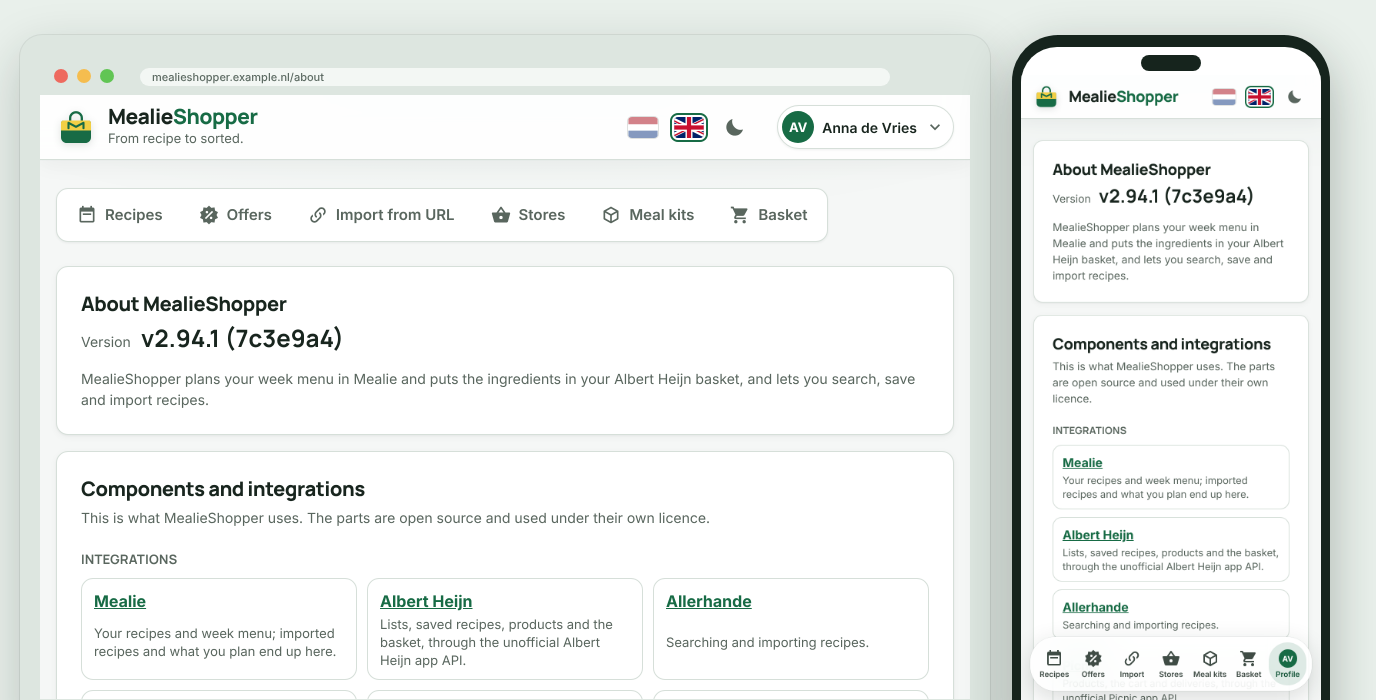
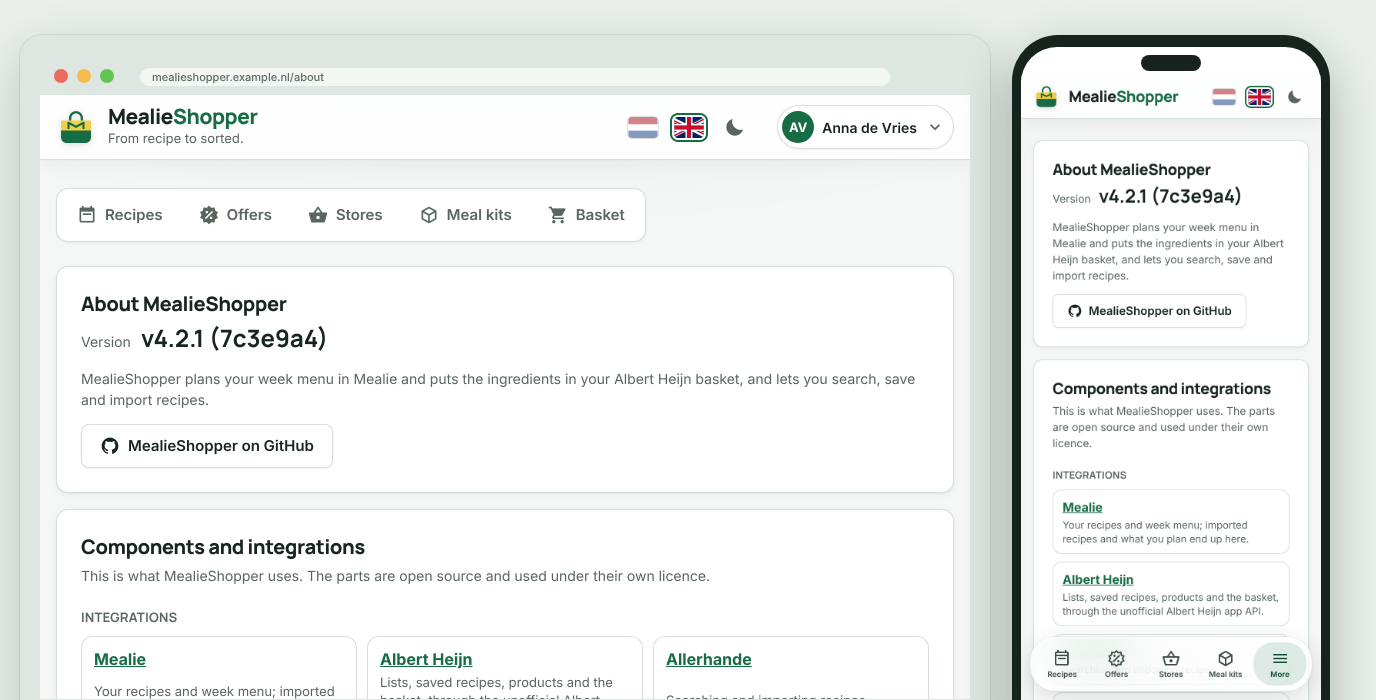
Over: link naar MealieShopper op GitHub (4.2.1)
De Over-pagina krijgt onder de versie en de omschrijving de knop
"MealieShopper op GitHub" (EN: "MealieShopper on GitHub") met het
GitHub-icoon van Material Design Icons. Hij opent
https://github.com/helmerzNL/MealieShopper in een nieuw tabblad.
/api/about geeft het adres ook terug als repoUrl.

Handleiding (NL en EN) en de screenshots van Over bijgewerkt;
test_repo_link bewaakt de link, het nieuwe tabblad en de vertalingen.

Claude-Session: https://claude.ai/code/session_01KSdu57v3zj27GFzTELBK48

diff --git a/templates/index.html b/templates/index.html
@@ -1956,6 +1956,7 @@
           <h2 data-i18n="about.title">Over MealieShopper</h2>
           <p class="about-version"><span class="muted" data-i18n="about.version_label">Versie</span> <strong id="about-version">-</strong></p>
           <p class="muted" data-i18n="about.tagline">MealieShopper plant je weekmenu in Mealie en zet de ingrediënten in je Albert Heijn-mandje, en laat je recepten zoeken, bewaren en importeren.</p>
+          <a class="button button--secondary about-repo" id="about-repo" href="https://github.com/helmerzNL/MealieShopper" target="_blank" rel="noopener noreferrer"><svg viewBox="0 0 24 24" aria-hidden="true" data-mdi="mdiGithub"><path d="M12,2A10,10 0 0,0 2,12C2,16.42 4.87,20.17 8.84,21.5C9.34,21.58 9.5,21.27 9.5,21C9.5,20.77 9.5,20.14 9.5,19.31C6.73,19.91 6.14,17.97 6.14,17.97C5.68,16.81 5.03,16.5 5.03,16.5C4.12,15.88 5.1,15.9 5.1,15.9C6.1,15.97 6.63,16.93 6.63,16.93C7.5,18.45 8.97,18 9.54,17.76C9.63,17.11 9.89,16.67 10.17,16.42C7.95,16.17 5.62,15.31 5.62,11.5C5.62,10.39 6,9.5 6.65,8.79C6.55,8.54 6.2,7.5 6.75,6.15C6.75,6.15 7.59,5.88 9.5,7.17C10.29,6.95 11.15,6.84 12,6.84C12.85,6.84 13.71,6.95 14.5,7.17C16.41,5.88 17.25,6.15 17.25,6.15C17.8,7.5 17.45,8.54 17.35,8.79C18,9.5 18.38,10.39 18.38,11.5C18.38,15.32 16.04,16.16 13.81,16.41C14.17,16.72 14.5,17.33 14.5,18.26C14.5,19.6 14.5,20.68 14.5,21C14.5,21.27 14.66,21.59 15.17,21.5C19.14,20.16 22,16.42 22,12A10,10 0 0,0 12,2Z"/></svg><span data-i18n="about.repo">MealieShopper op GitHub</span></a>
         </div>
         <div class="box box--wide about-box">
           <h2 data-i18n="about.components_title">Componenten en integraties</h2>

diff --git a/static/i18n/nl.js b/static/i18n/nl.js
@@ -1184,6 +1184,7 @@ I18N.add("nl", {
   "about.title": "Over MealieShopper",
   "about.version_label": "Versie",
   "about.tagline": "MealieShopper plant je weekmenu in Mealie en zet de ingrediënten in je Albert Heijn-mandje, en laat je recepten zoeken, bewaren en importeren.",
+  "about.repo": "MealieShopper op GitHub",
   "about.components_title": "Componenten en integraties",
   "about.components_intro": "Dit gebruikt MealieShopper. De onderdelen zijn open source en worden gebruikt onder hun eigen licentie.",
   "about.group.integrations": "Integraties",

diff --git a/static/i18n/en.js b/static/i18n/en.js
@@ -1184,6 +1184,7 @@ I18N.add("en", {
   "about.title": "About MealieShopper",
   "about.version_label": "Version",
   "about.tagline": "MealieShopper plans your week menu in Mealie and puts the ingredients in your Albert Heijn basket, and lets you search, save and import recipes.",
+  "about.repo": "MealieShopper on GitHub",
   "about.components_title": "Components and integrations",
   "about.components_intro": "This is what MealieShopper uses. The parts are open source and used under their own licence.",
   "about.group.integrations": "Integrations",

diff --git a/static/styles.css b/static/styles.css
@@ -3960,6 +3960,17 @@ body.has-onboarding {
   font-size: 12px;
 }
 
+.about-repo {
+  width: fit-content;
+  text-decoration: none;
+}
+
+.about-repo svg {
+  width: 20px;
+  height: 20px;
+  fill: currentColor;
+}
+
 .about-coffee p {
   margin: 8px 0 14px;
 }

diff --git a/tests/test_about.py b/tests/test_about.py
@@ -167,6 +167,17 @@ class ComponentsTest(AppTestCase):
         self.assertIn('rel="noopener noreferrer"', link)
         self.assertIn('target="_blank"', link)
 
+    def test_repo_link(self):
+        """Over linkt naar de broncode op GitHub, in een nieuw tabblad en met een vertaalde tekst."""
+        self.assertEqual(run(about.about())["repoUrl"], "https://github.com/helmerzNL/MealieShopper")
+        link = re.search(r'<a[^>]*id="about-repo"[^>]*>', HTML).group(0)
+        self.assertIn('href="https://github.com/helmerzNL/MealieShopper"', link)
+        self.assertIn('rel="noopener noreferrer"', link)
+        self.assertIn('target="_blank"', link)
+        self.assertIn('data-i18n="about.repo"', HTML[HTML.index('id="about-repo"'):])
+        for lang in ("nl", "en"):
+            self.assertIn('"about.repo": "MealieShopper o', (ROOT / "static" / "i18n" / f"{lang}.js").read_text(encoding="utf-8"), lang)
+
 
 class RouteTest(AppTestCase):
     def setUp(self):
@@ -199,7 +210,8 @@ class RouteTest(AppTestCase):
 class PageTest(AppTestCase):
     def test_about_page_has_versions_components_and_coffee_in_that_order_and_sits_in_the_avatar_menu(self):
         section = HTML[HTML.index('<section id="about"'):HTML.index("</main>")]
-        self.assertLess(section.index('id="about-version"'), section.index('id="about-components"'))
+        self.assertLess(section.index('id="about-version"'), section.index('id="about-repo"'))
+        self.assertLess(section.index('id="about-repo"'), section.index('id="about-components"'))
         self.assertLess(section.index('id="about-components"'), section.index('id="about-coffee"'))
         self.assertNotIn('data-tab="about"', HTML)
         menu = HTML[HTML.index('id="user-menu-list"'):HTML.index("</div>\n\n    <main")]

diff --git a/mealieshopper/about.py b/mealieshopper/about.py
@@ -20,6 +20,7 @@ from typing import Any
 
 ROOT = Path(__file__).resolve().parent.parent
 COFFEE_URL = "https://buymeacoffee.com/flux76"
+REPO_URL = "https://github.com/helmerzNL/MealieShopper"
 
 # (id, groep, naam, pakket in pip, vaste versie, licentie, website)
 COMPONENTS: list[tuple[str, str, str, str | None, str | None, str | None, str]] = [
@@ -138,6 +139,7 @@ async def about() -> dict[str, Any]:
         **await build_info(),
         "channel": build_channel(),
         "coffeeUrl": COFFEE_URL,
+        "repoUrl": REPO_URL,
         "components": [
             {
                 "id": ident,

diff --git a/CHANGELOG.md b/CHANGELOG.md
@@ -2,6 +2,16 @@
 
 Elke release heeft hier een eigen kopje `## vX.Y.Z` en wordt bij het mergen naar `main` automatisch een GitHub release (zie [Releases](#releases)). De tekst onder het kopje is de release-tekst op GitHub; een stabiele release krijgt de teksten van alle versies sinds de vorige stabiele release.
 
+## v4.2.1
+
+### Gewijzigd in 4.2.1
+
+*English summary: the **About** page now links to the MealieShopper repository on GitHub (https://github.com/helmerzNL/MealieShopper), with a button under the version and the description. It opens in a new tab. `/api/about` also returns the address as `repoUrl`.*
+
+- **Over: link naar MealieShopper op GitHub.** Onder het versienummer en de omschrijving staat de knop **MealieShopper op GitHub** (met het GitHub-icoon van Material Design Icons), naar [github.com/helmerzNL/MealieShopper](https://github.com/helmerzNL/MealieShopper). Hij opent in een nieuw tabblad (`target="_blank"`, `rel="noopener noreferrer"`), zoals de koffieknop. `/api/about` geeft het adres ook terug, als `repoUrl` (`about.REPO_URL`).
+- **Handleiding** (NL en EN): bij Over en updates staat de knop naar GitHub, en de screenshot van Over (`docs/screenshots/nl/about.png` en `en/about.png`) is opnieuw gemaakt.
+- **Tests:** `test_repo_link` controleert het adres in de API en op de pagina, het nieuwe tabblad en de vertaling in het Nederlands en Engels; de volgordetest zet de knop tussen de versie en de componenten.
+
 ## v4.2.0
 
 ### Nieuw in 4.2.0

diff --git a/docs/handleiding.md b/docs/handleiding.md
@@ -516,7 +516,7 @@ Rechtsboven staat je **avatar** met een uitklapmenu. Op een klein scherm opent d
 
 ### Over en updates
 
-Onder **Over** (in het avatar-menu, op een telefoon onder **Meer**) zie je welke versie en commit er draait en welke componenten de app gebruikt.
+Onder **Over** (in het avatar-menu, op een telefoon onder **Meer**) zie je welke versie en commit er draait en welke componenten de app gebruikt. Met **MealieShopper op GitHub** open je de broncode, de releases en de issues van de app in een nieuw tabblad.
 
 <img src="screenshots/nl/about.png" alt="Over: versie, commit en de gebruikte componenten" width="900">
 

diff --git a/docs/handleiding.en.md b/docs/handleiding.en.md
@@ -516,7 +516,7 @@ At the top right is your **avatar** with a drop-down menu. On a small screen the
 
 ### About and updates
 
-Under **About** (in the avatar menu, on a phone under **More**) you see which version and commit is running and which components the app uses.
+Under **About** (in the avatar menu, on a phone under **More**) you see which version and commit is running and which components the app uses. **MealieShopper on GitHub** opens the app's source code, releases and issues in a new tab.
 
 <img src="screenshots/en/about.png" alt="About: version, commit and the components used" width="900">
 
